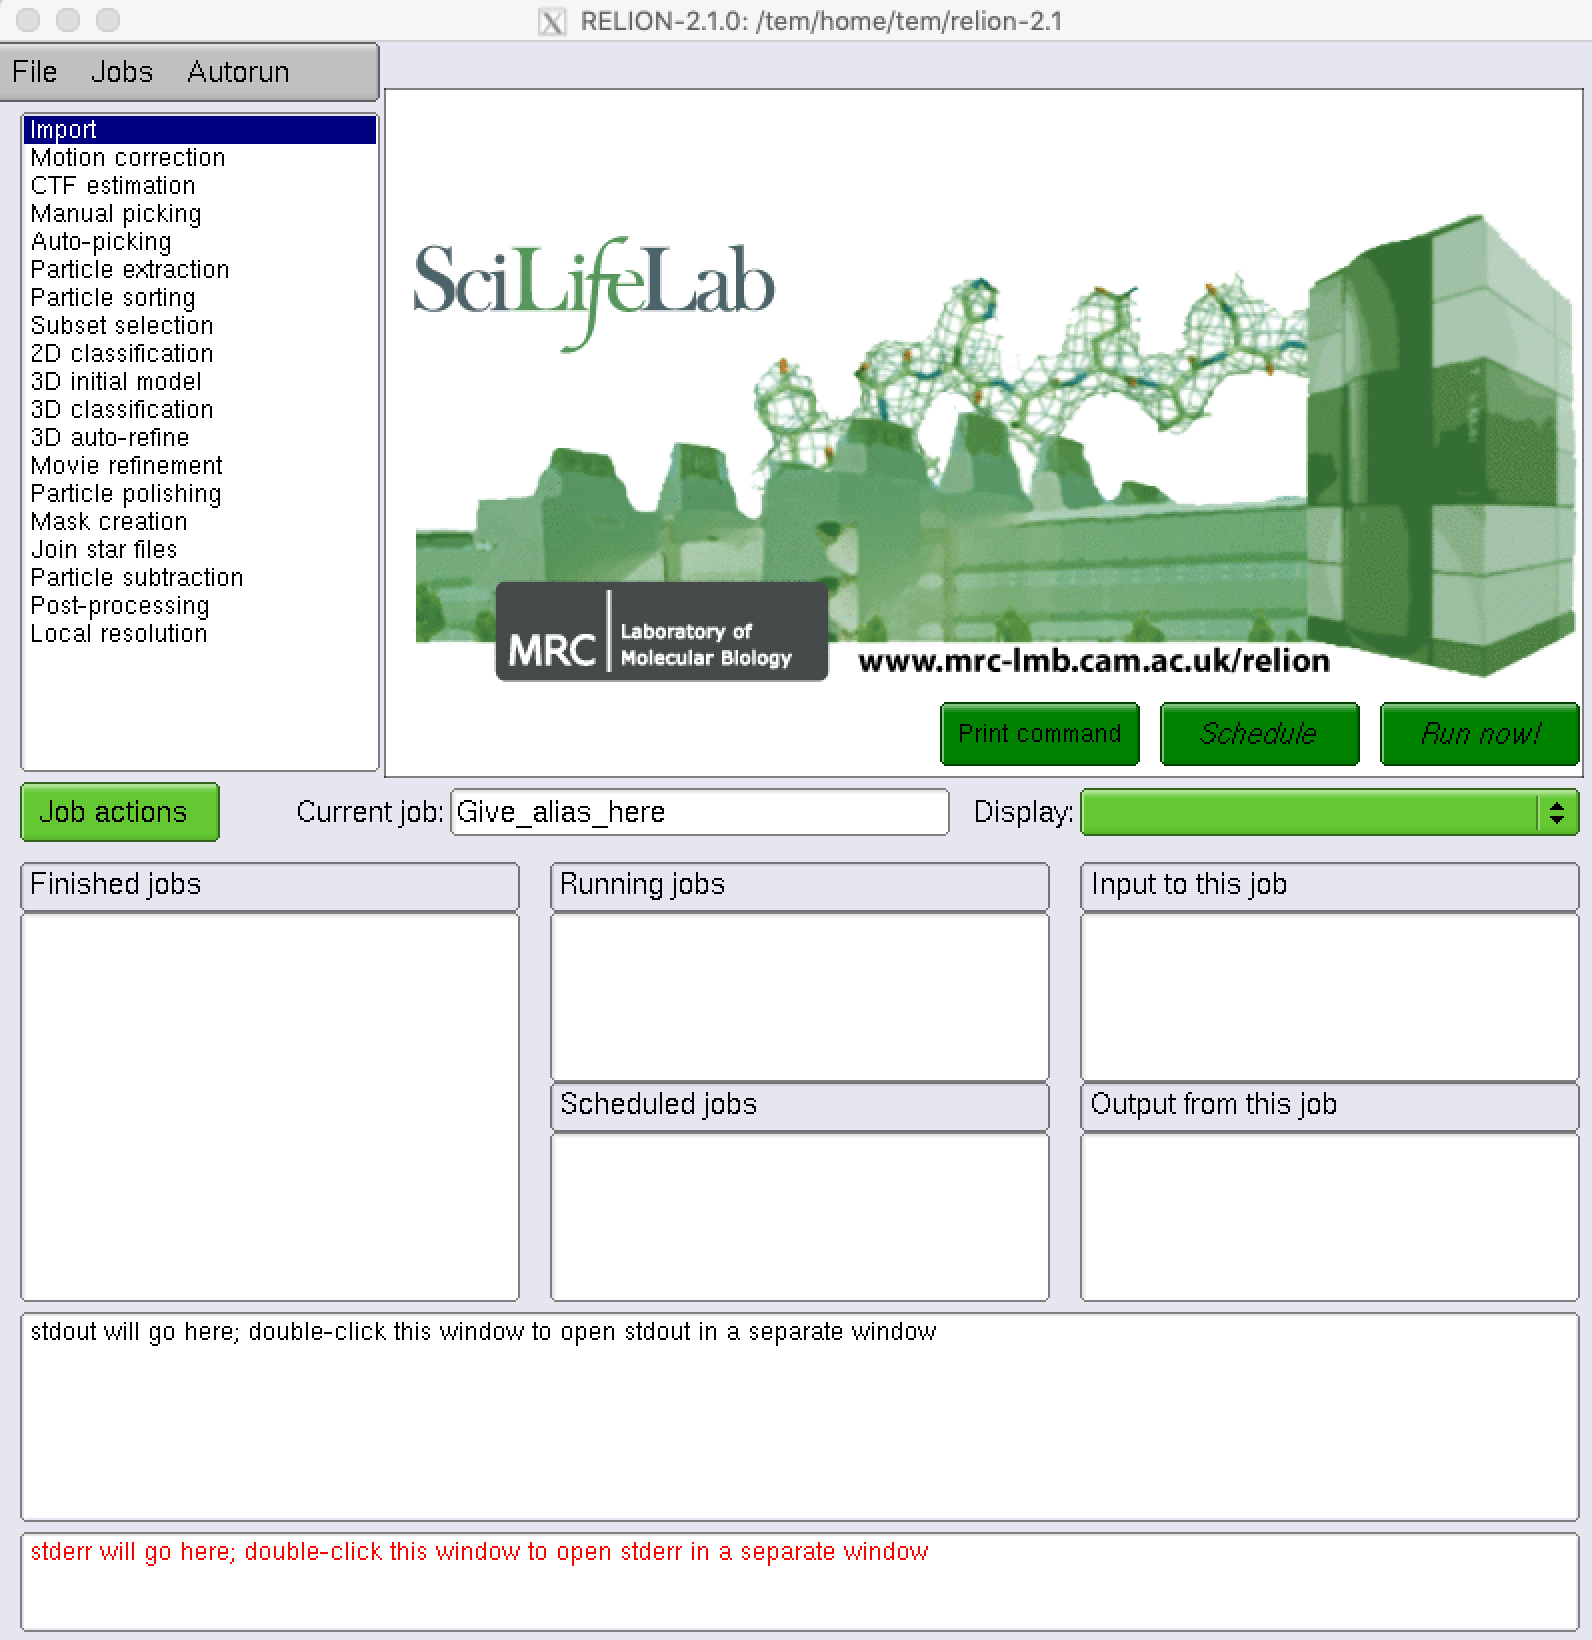
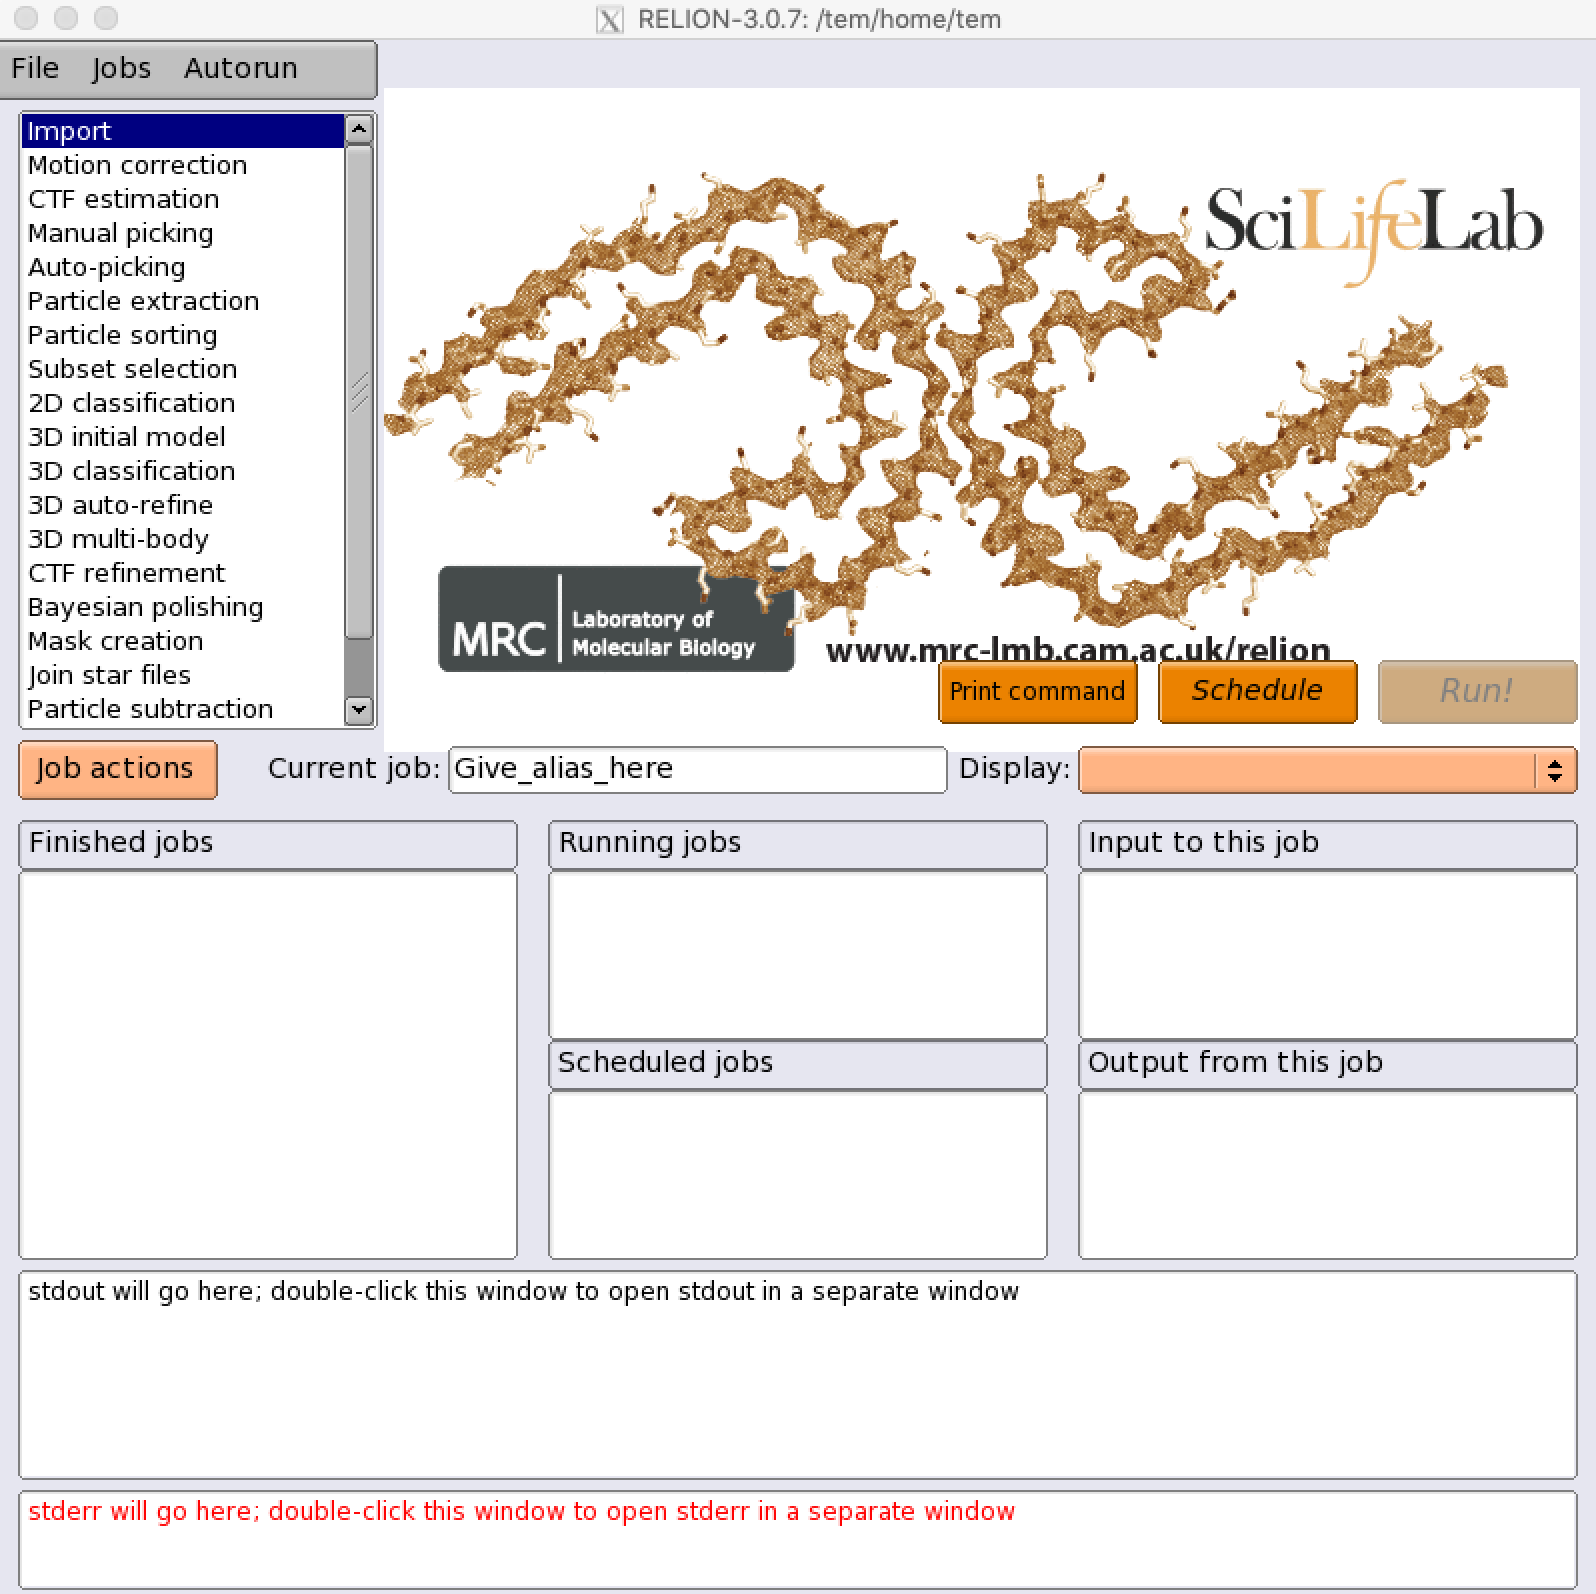
first release

diff --git a/docs/relion.rst b/docs/relion.rst
@@ -142,9 +142,14 @@ For the use of CPU cluster, we have set the RELION_QSUB_EXTRA_COUNT to 2. Two ex
   setenv RELION_QSUB_EXTRA_COUNT 2
   setenv RELION_QSUB_EXTRA1 "Number of Nodes"
   setenv RELION_QSUB_EXTRA2 "Number of processes per each node"
-  setenv RELION_QSUB_EXTRA1_DEFAULT 1
-  setenv RELION_QSUB_EXTRA2_DEFAULT 3
+  setenv RELION_QSUB_EXTRA1_DEFAULT 2
+  setenv RELION_QSUB_EXTRA2_DEFAULT 16
 
+.. image:: images/relion-cpu.jpg
+    :scale: 70 %
+    :align: center
+
+As shown in above figure, you can browse and select "standard submission script" as the location of RELION_QSUB_TEMPLATE for reloin 3.0.7 (i.e., /tem/home/tem/_Applications/relion-3.0.7/cpu/bin/qsub-relion3-cpu.bash or its own your copy), and give "Number of Nodes" and "Number of processes per each node" values instead of default ones to submit  a job to Torque based TEM farm. (NOTE : you MUST use your OWN QUEUEe for "Queue name" and correct "number of MPI procs" which is generally total number of processes (number of nodes x number of processes per each node))
 
 Job script template (for CPU use)
 ---------------------------------
@@ -199,6 +204,8 @@ Job script template (for CPU use)
   mpirun --prefix /tem/home/tem/_SystemLibs/openmpi-1.8.8 -machinefile $PBS_NODEFILE XXXcommandXXX
 
   echo "Done!"
+
+
 
 
 Using GPGPU cluster
